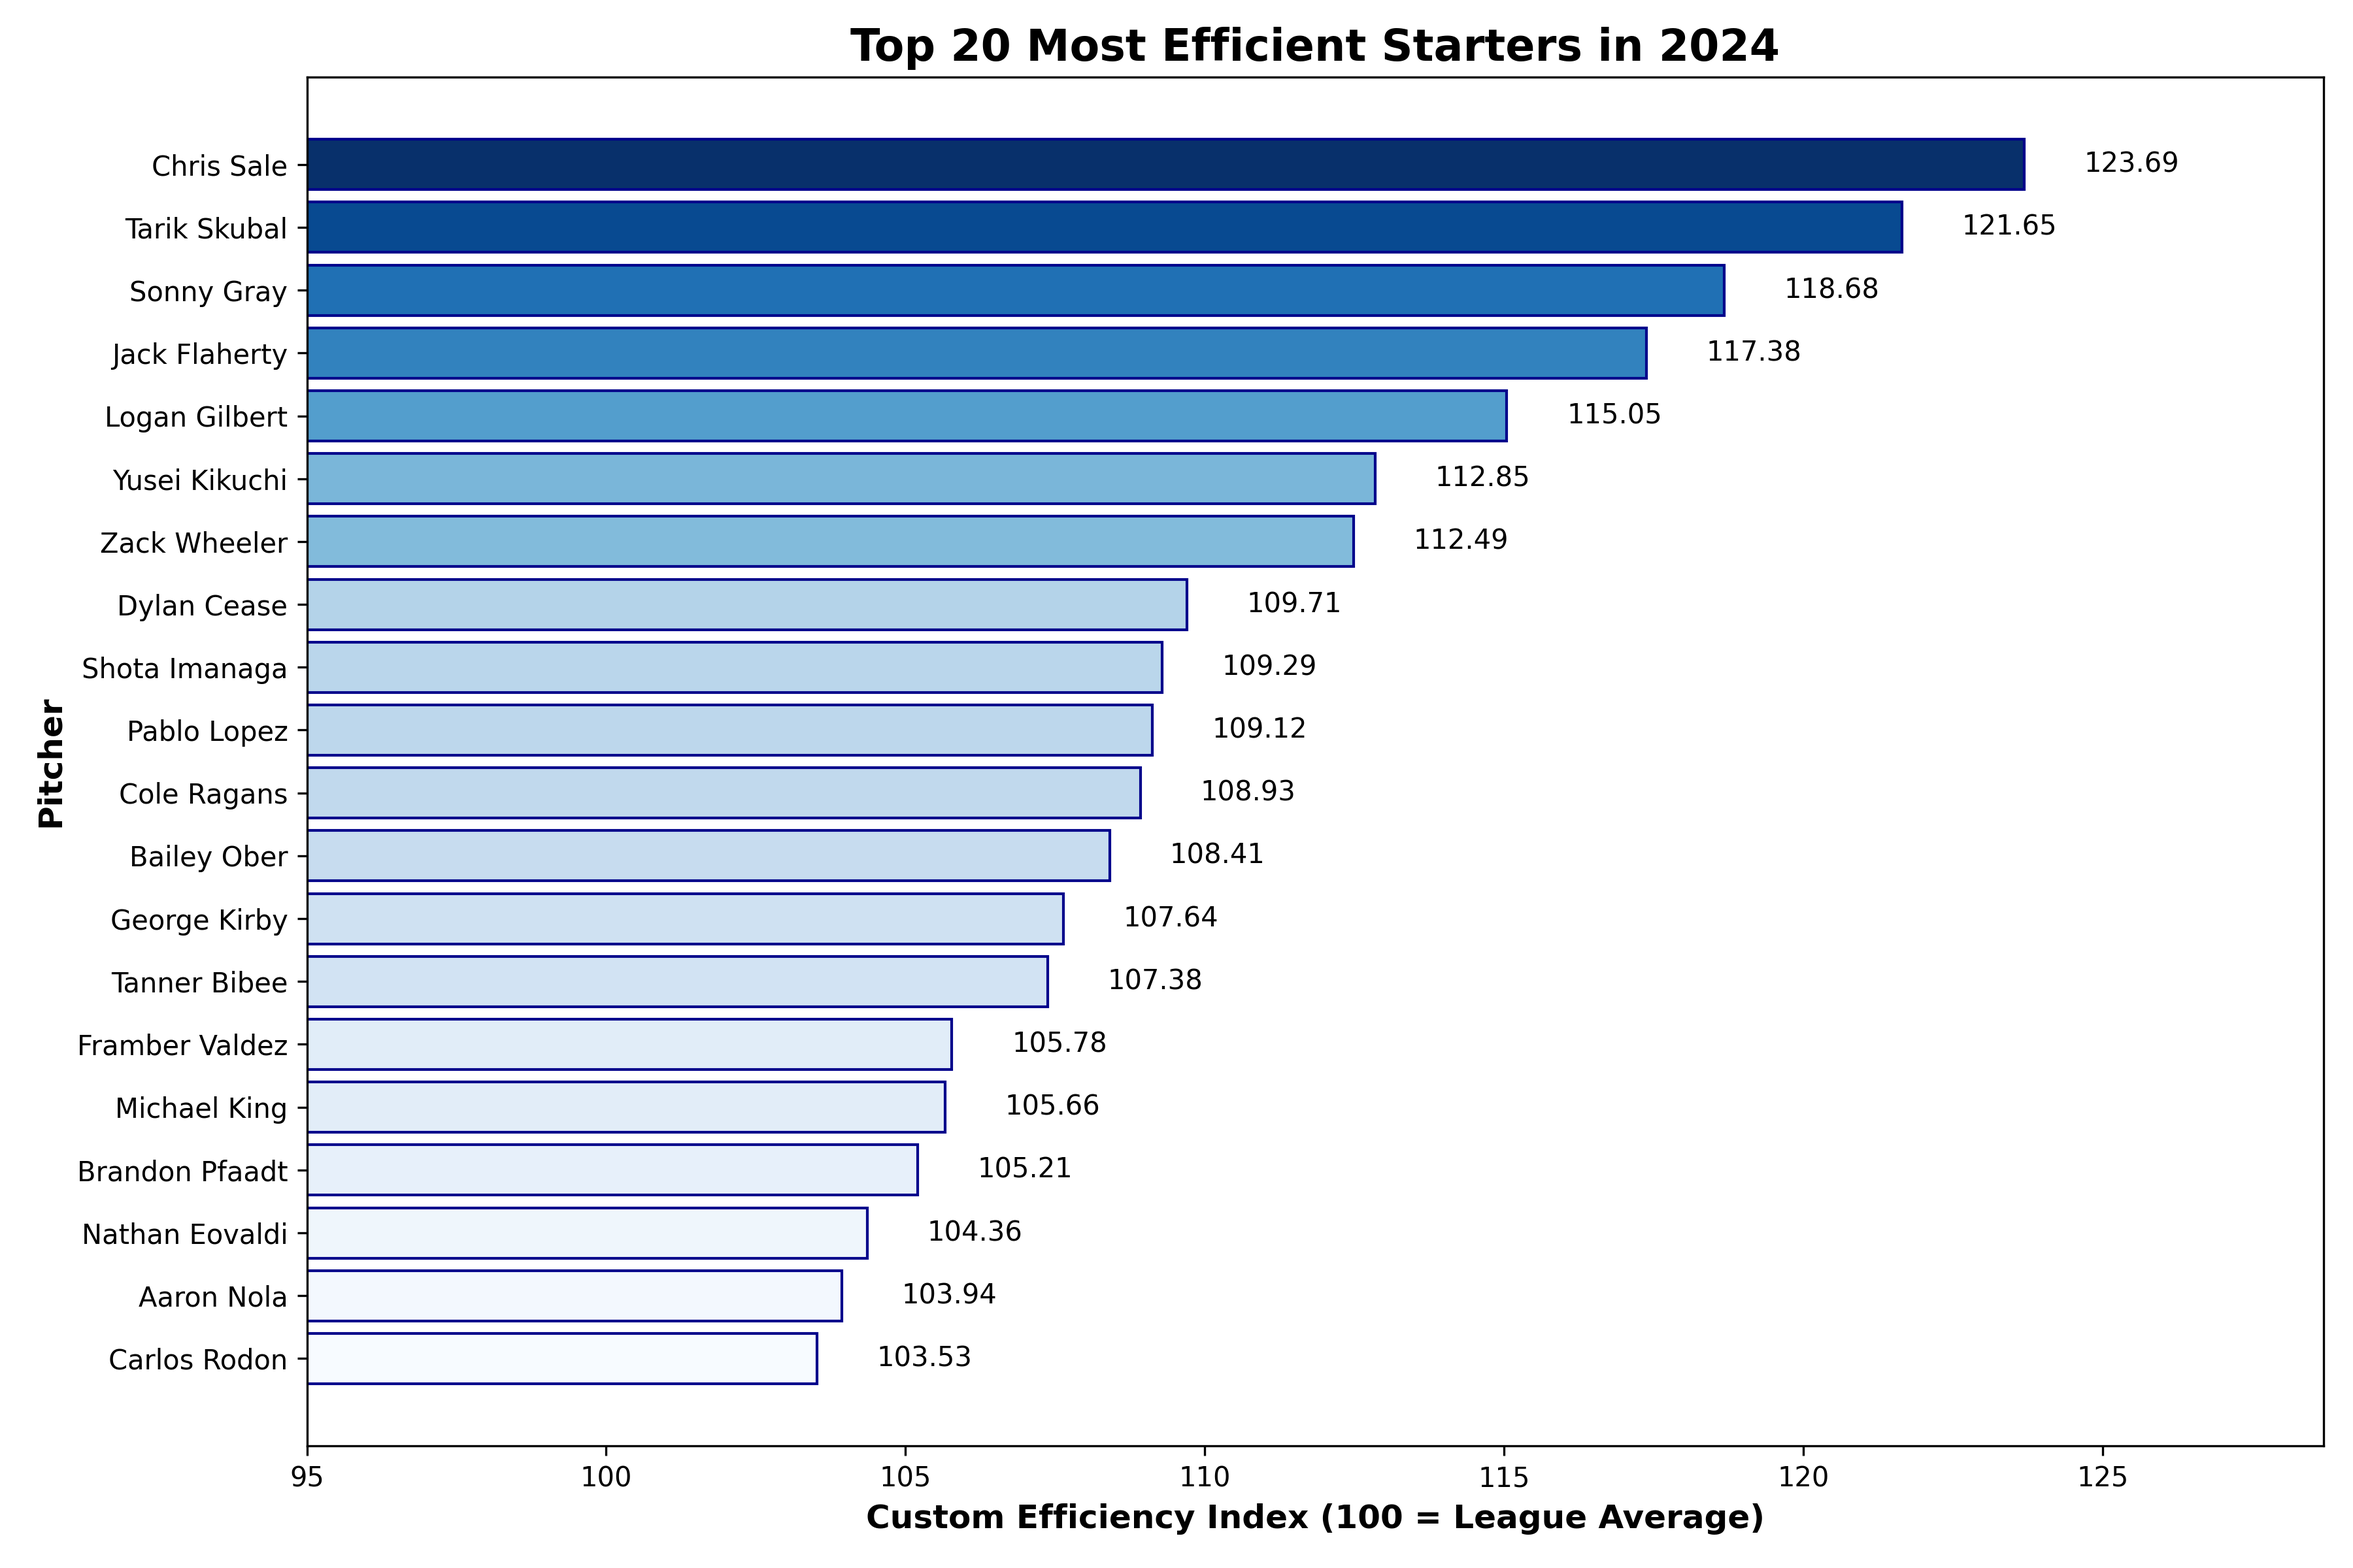
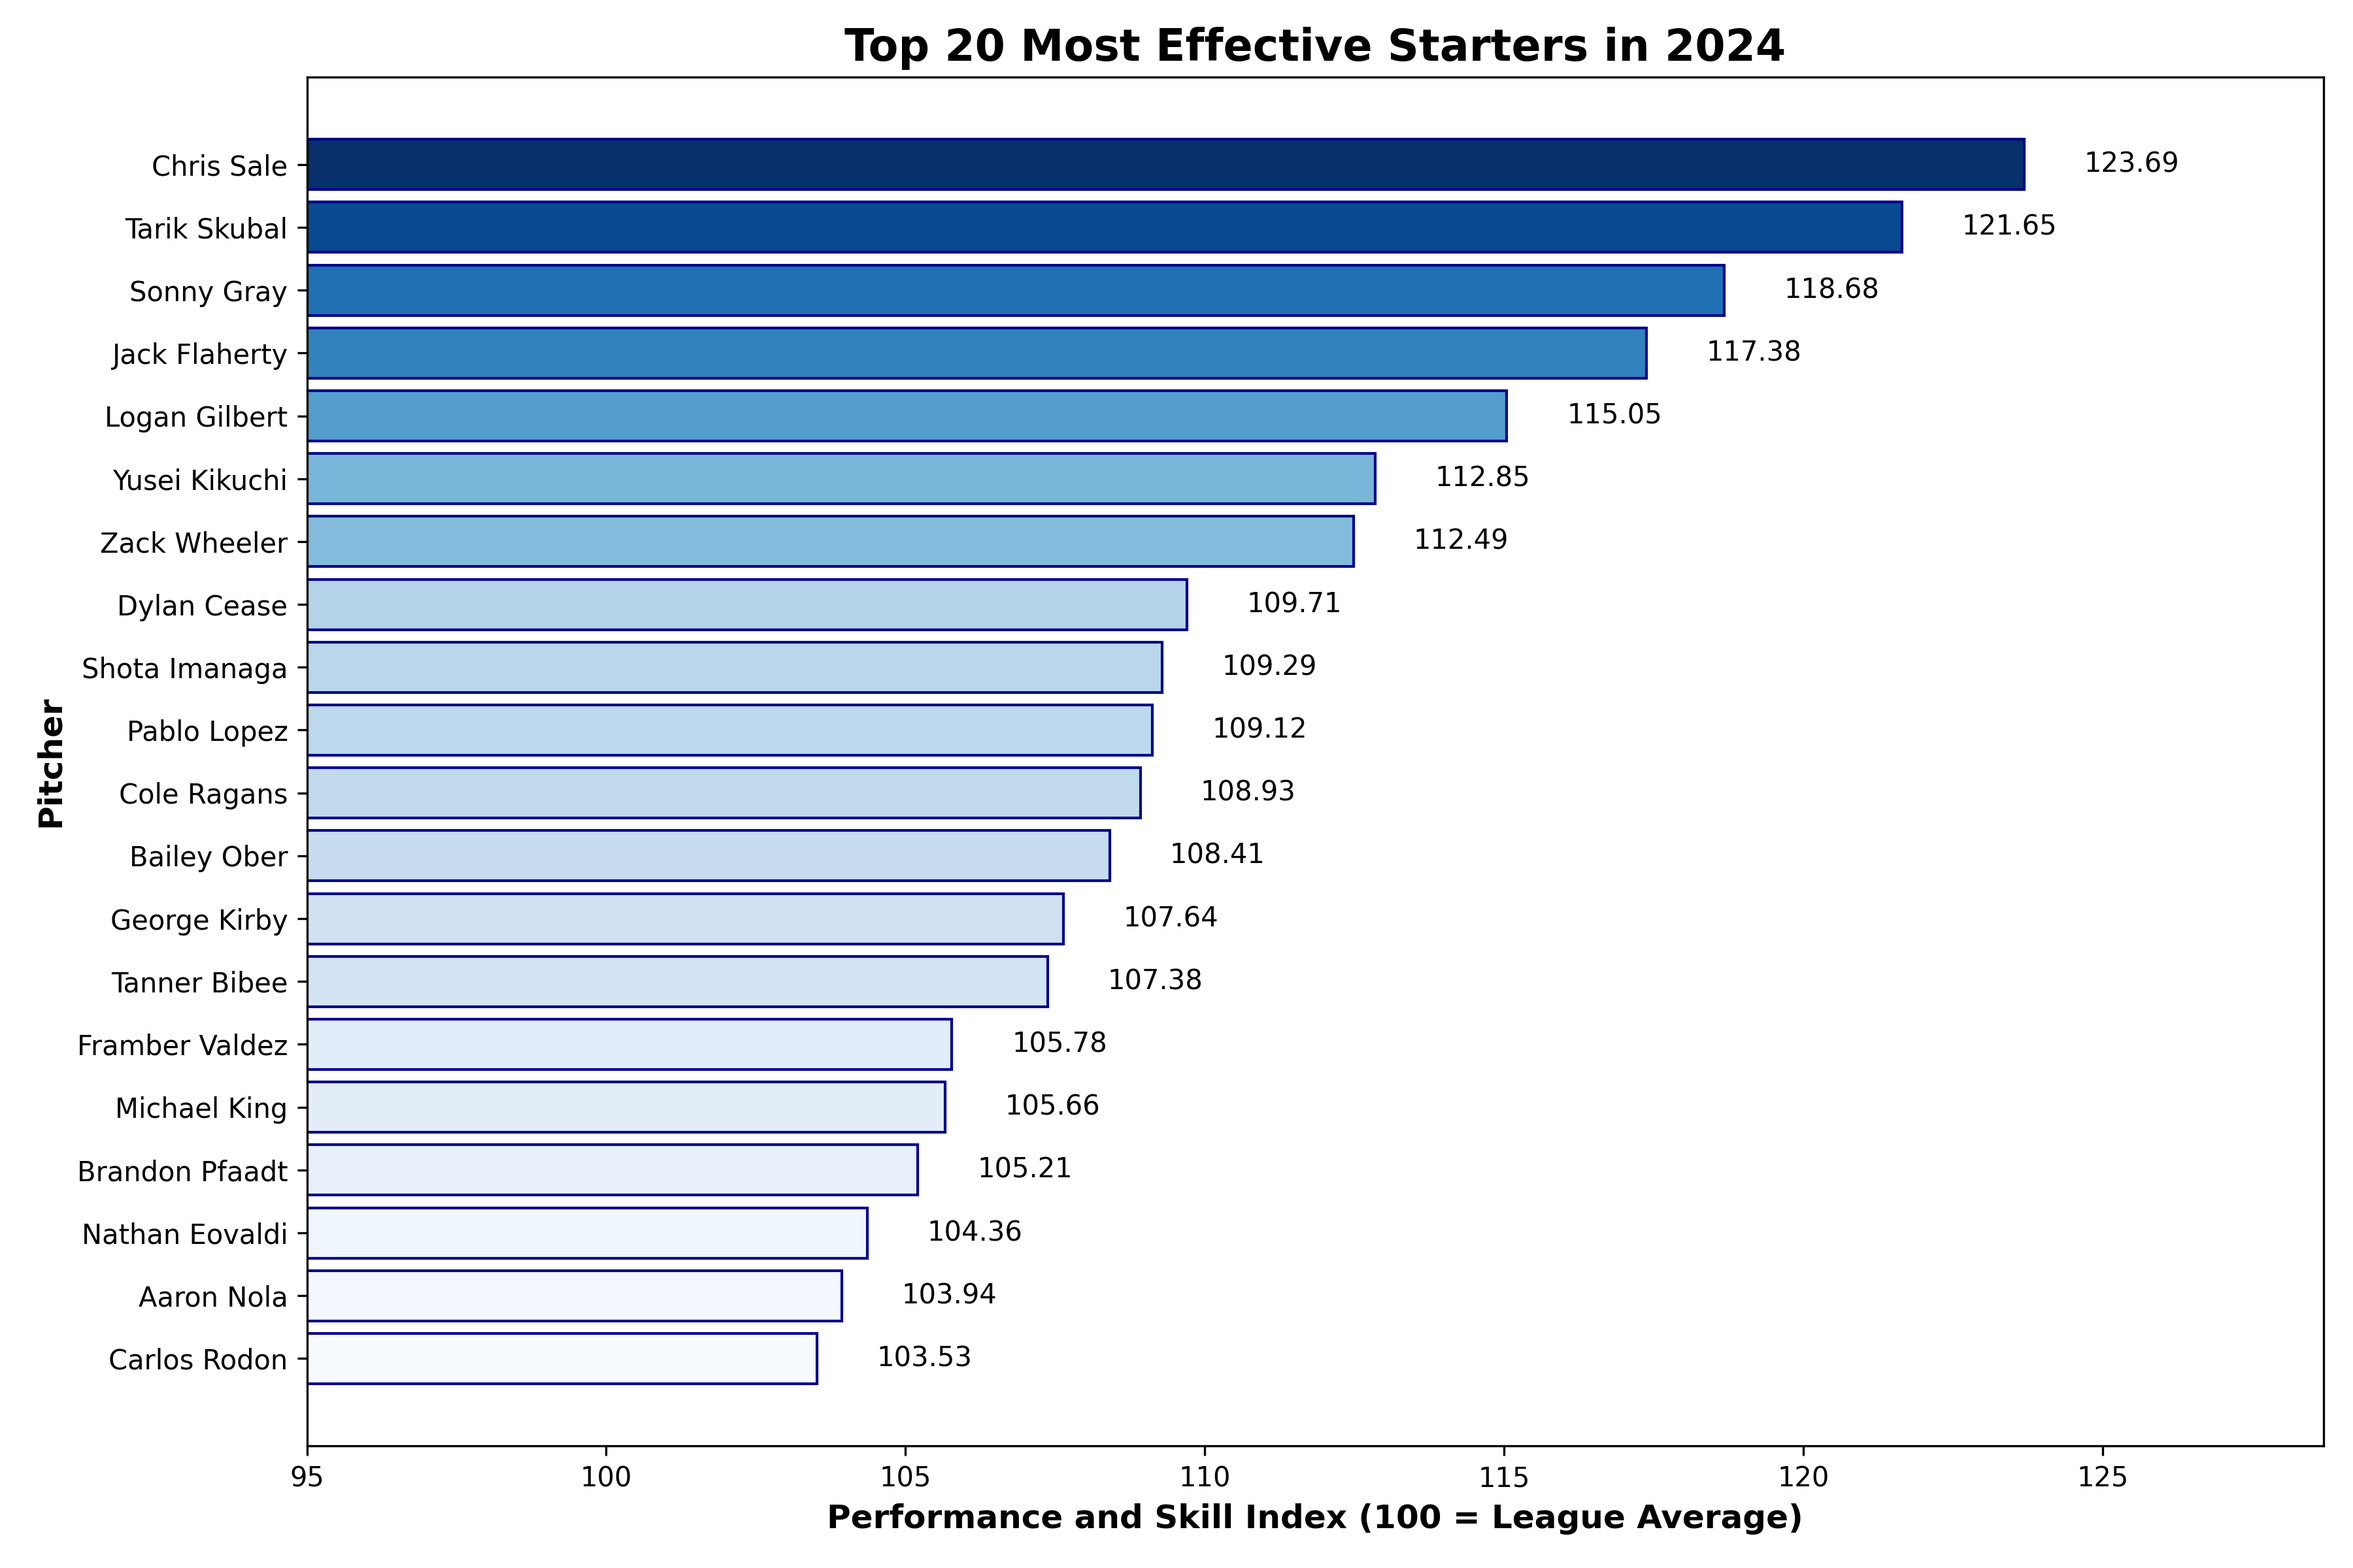
updated variable names and project statement

Changed region(s): [[0.3733, 0.0, 0.7467, 0.0625], [0.3422, 0.9375, 0.7467, 1.0]]

diff --git a/main.py b/main.py
@@ -3,9 +3,9 @@
 from pybaseball import pitching_stats
 import matplotlib.pyplot as plt
 
-def calculate_efficiency_index(df):
+def calculate_PSI(df):
     """
-    Calculates a custom pitcher efficiency index based on Z-scores of K-BB% and SIERA.
+    Calculates a custom pitcher performance and skill index (PSI) based on Z-scores of K-BB% and SIERA.
     The index is scaled so 100 is the league average.
     """
     df = df[df['IP'] > 0]
@@ -22,44 +22,44 @@ def calculate_efficiency_index(df):
     siera_weight = 0.6
     k_bb_weight = 0.4
     
-    df['Efficiency_Index'] = (df['siera_zscore'] * siera_weight + df['k_bb_zscore'] * k_bb_weight)
+    df['PSI'] = (df['siera_zscore'] * siera_weight + df['k_bb_zscore'] * k_bb_weight)
     
-    final_index_scaled = 100 + (df['Efficiency_Index'] * 10)
-    df['Efficiency_Index'] = final_index_scaled
+    final_index_scaled = 100 + (df['PSI'] * 10)
+    df['PSI'] = final_index_scaled
 
     return df
 
 def visualize_data(top_pitchers, year, num_pitchers):
     """
     Creates a horizontal bar chart to visualize the top N pitchers
-    using a sequential color palette, with the darkest color for the most efficient pitcher.
+    using a sequential color palette, with the darkest color for the most effective pitcher.
     """
     plot_data = top_pitchers.head(num_pitchers).copy()
     
     pitcher_names = plot_data['Name']
-    efficiency_scores = plot_data['Efficiency_Index']
+    PSI_scores = plot_data['PSI']
 
-    norm = plt.Normalize(efficiency_scores.min(), efficiency_scores.max())
+    norm = plt.Normalize(PSI_scores.min(), PSI_scores.max())
     cmap = plt.get_cmap('Blues')
-    colors = cmap(norm(efficiency_scores))
+    colors = cmap(norm(PSI_scores))
 
     fig, ax = plt.subplots(figsize=(12, 8))
     ax.barh(
         pitcher_names,
-        efficiency_scores,
+        PSI_scores,
         color=colors,         
         edgecolor='darkblue', 
         linewidth=1,          
     )
     
-    ax.set_title(f'Top {num_pitchers} Most Efficient Starters in {year}', fontsize=16, weight='bold')
-    ax.set_xlabel('Custom Efficiency Index (100 = League Average)', fontsize=12, weight='bold')
+    ax.set_title(f'Top {num_pitchers} Most Effective Starters in {year}', fontsize=16, weight='bold')
+    ax.set_xlabel('Performance and Skill Index (100 = League Average)', fontsize=12, weight='bold')
     ax.set_ylabel('Pitcher', fontsize=12, weight='bold')
 
-    for index, value in enumerate(efficiency_scores):
+    for index, value in enumerate(PSI_scores):
         ax.text(value + 1, index, f'{value:.2f}', va='center')
         
-    ax.set_xlim(left=95, right=max(efficiency_scores) + 5)
+    ax.set_xlim(left=95, right=max(PSI_scores) + 5)
     
     ax.invert_yaxis()
     
@@ -70,8 +70,8 @@ def visualize_data(top_pitchers, year, num_pitchers):
 
 def find_top_pitchers(year, min_ip, num_pitchers=20):
     """
-    Fetches pitcher data for a given year, calculates the custom efficiency
-    index, and returns a sorted list of the top performers.
+    Fetches pitcher data for a given year, calculates the PSI
+    and returns a sorted list of the top performers.
     """
     print(f"Fetching pitcher data for the {year} season from FanGraphs...")
     
@@ -83,14 +83,14 @@ def find_top_pitchers(year, min_ip, num_pitchers=20):
         print("No qualified pitchers found. Check year and minimum IP.")
         return
         
-    print(f"Calculating efficiency index for {len(qualified_pitchers)} qualified pitchers...")
+    print(f"Calculating PSI for {len(qualified_pitchers)} qualified pitchers...")
     
-    pitchers_with_index = calculate_efficiency_index(qualified_pitchers)
+    pitchers_with_index = calculate_PSI(qualified_pitchers)
     
-    top_pitchers = pitchers_with_index.sort_values(by='Efficiency_Index', ascending=False)
+    top_pitchers = pitchers_with_index.sort_values(by='PSI', ascending=False)
     
     print(f"\nTop {num_pitchers} Most Efficient Pitchers in {year} (min {min_ip} IP):")
-    display_cols = ['Name', 'Team', 'IP', 'K-BB%', 'SIERA', 'Efficiency_Index']
+    display_cols = ['Name', 'Team', 'IP', 'K-BB%', 'SIERA', 'PSI']
     print(top_pitchers[display_cols].head(num_pitchers).to_string(index=False))
 
     visualize_data(top_pitchers, year, num_pitchers)
